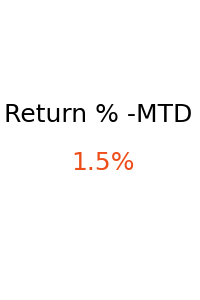
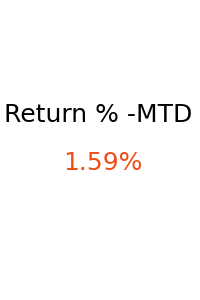
Pull latest code

Changed region(s): [[0.33, 0.48, 0.72, 0.57]]

diff --git a/generate_all_kpi.py b/generate_all_kpi.py
@@ -1,64 +1,64 @@
-
-# # --------- 1. Total Outstanding ----------------------------------
-import Functions.outstanding as out
-out.totalOutstanding()
-
-# # ------- 2. Credit Outstanding ---------------------------------
-import Functions.credit_outstanding as credit
-credit.creditOutstanding()
-
-# ---. 3. NDM wise credit outstanding -----------------------------
-import Functions.ndm_outstanding as ndm_out
-ndm_out.ndm_wise_outstanding()
-
-# # ---- 4. matured credit aging ----------------------------------
-import Functions.matured_credit_aging as ndm_matured
-ndm_matured.matured_credit()
 #
-# # # ----- 5. NDM matured credit aging ---------------------------
-import Functions.ndm_matured_credit_aging as ndm_aging
-ndm_aging.ndm_matured_credit_aging()
+# # # --------- 1. Total Outstanding ----------------------------------
+# import Functions.outstanding as out
+# out.totalOutstanding()
 #
-# # -------- 6. Branch wise matured  credit aging  -------------------
-import Functions.branch_wise_matured_crdit as branch_matured
-branch_matured.branch_wise_matured_credit()
+# # # ------- 2. Credit Outstanding ---------------------------------
+# import Functions.credit_outstanding as credit
+# credit.creditOutstanding()
 #
-# # # -- 7. Total Non-matured credit aging ---------------------------
-import Functions.total_non_matured_credit_aging as non_matured_credit
-non_matured_credit.total_non_matured_credit_aging()
-
-# # -- 8. NDM wise non-matured credit aging ------------------------
-import Functions.ndm_non_matured_credit_aging as ndm_non_matured
-ndm_non_matured.ndm_non_matured_credit_aging()
-
-# # --- 9. Branch wise non-matured credit aging --------------------
-import Functions.branch_wise_non_matured_credit as branch_non_matured
-branch_non_matured.branch_wise_non_matured_credit()
-
-# # ---10. Total Cash Drop Aging ----------------------------------
-import Functions.total_cashdrop_aging as cash_drop
-cash_drop.cashdrop_aging()
-
-# # ------------11. NDM wise cash drop aging ----------------------
-import Functions.NDM_wise_cash_drop_aging as ndm_cash_drop
-ndm_cash_drop.ndm_cash_drop()
-
-# # -- 12. Branch wise cash drop aging ----------------
-import Functions.branch_wise_cash_drop_aging as branch_cash_drop
-branch_cash_drop.branch_wise_cash_drop_aging()
-
-# # ------ 13. Nation wide return ---------------------------------
+# # ---. 3. NDM wise credit outstanding -----------------------------
+# import Functions.ndm_outstanding as ndm_out
+# ndm_out.ndm_wise_outstanding()
+#
+# # # ---- 4. matured credit aging ----------------------------------
+# import Functions.matured_credit_aging as ndm_matured
+# ndm_matured.matured_credit()
+# #
+# # # # ----- 5. NDM matured credit aging ---------------------------
+# import Functions.ndm_matured_credit_aging as ndm_aging
+# ndm_aging.ndm_matured_credit_aging()
+# #
+# # # -------- 6. Branch wise matured  credit aging  -------------------
+# import Functions.branch_wise_matured_crdit as branch_matured
+# branch_matured.branch_wise_matured_credit()
+# #
+# # # # -- 7. Total Non-matured credit aging ---------------------------
+# import Functions.total_non_matured_credit_aging as non_matured_credit
+# non_matured_credit.total_non_matured_credit_aging()
+#
+# # # -- 8. NDM wise non-matured credit aging ------------------------
+# import Functions.ndm_non_matured_credit_aging as ndm_non_matured
+# ndm_non_matured.ndm_non_matured_credit_aging()
+#
+# # # --- 9. Branch wise non-matured credit aging --------------------
+# import Functions.branch_wise_non_matured_credit as branch_non_matured
+# branch_non_matured.branch_wise_non_matured_credit()
+#
+# # # ---10. Total Cash Drop Aging ----------------------------------
+# import Functions.total_cashdrop_aging as cash_drop
+# cash_drop.cashdrop_aging()
+#
+# # # ------------11. NDM wise cash drop aging ----------------------
+# import Functions.NDM_wise_cash_drop_aging as ndm_cash_drop
+# ndm_cash_drop.ndm_cash_drop()
+#
+# # # -- 12. Branch wise cash drop aging ----------------
+# import Functions.branch_wise_cash_drop_aging as branch_cash_drop
+# branch_cash_drop.branch_wise_cash_drop_aging()
+#
+# # # ------ 13. Nation wide return ---------------------------------
 import Functions.nation_wise_return as nation_return
 nation_return.nation_wide_return()
+# #
+# # # # -------14. Nation VS NDM Return ------------------------------
+# import Functions.national_vs_ndm_return as nation_vs_ndm
+# nation_vs_ndm.national_vs_ndm_return()
 #
-# # # -------14. Nation VS NDM Return ------------------------------
-import Functions.national_vs_ndm_return as nation_vs_ndm
-nation_vs_ndm.national_vs_ndm_return()
-
-# # -------15. Top 5 Branch Return -------------------------------
-import Functions.top5_branch_return as top5_branch
-top5_branch.top5_branch_return()
-
-# # ----  16.Top 5 Delivery Persons Return Amount ---------------
-import Functions.top5_delivery_person as delivery_persons_return
-delivery_persons_return.top5_delivery_persons_return()
+# # # -------15. Top 5 Branch Return -------------------------------
+# import Functions.top5_branch_return as top5_branch
+# top5_branch.top5_branch_return()
+#
+# # # ----  16.Top 5 Delivery Persons Return Amount ---------------
+# import Functions.top5_delivery_person as delivery_persons_return
+# delivery_persons_return.top5_delivery_persons_return()

diff --git a/Functions/outstanding.py b/Functions/outstanding.py
@@ -6,11 +6,10 @@ def totalOutstanding():
     outstanding_df = lib.pd.read_sql_query(""" select
                     SUM(CASE WHEN TERMS='CASH' THEN OUT_NET END) AS TotalOutStandingOnCash,
                     SUM(CASE WHEN TERMS not like '%CASH%' THEN OUT_NET END) AS TotalOutStandingOnCredit
-
                     from  [ARCOUT].dbo.[CUST_OUT]
                     where [INVDATE] <= convert(varchar(8),DATEADD(D,0,GETDATE()),112)
                                            
-                                            """, fn.conn)
+                     """, fn.conn)
 
     cash = int(outstanding_df['TotalOutStandingOnCash'])
     credit = int(outstanding_df['TotalOutStandingOnCredit'])
@@ -27,12 +26,12 @@ def totalOutstanding():
 
     fig1, ax = lib.plt.subplots()
     # Add this next line to show data
-    wedges, labels, autopct = ax.pie(data, labels=data_label, colors=colors,  autopct='%.1f%%', startangle=90,
+    wedges, labels, autopct = ax.pie(data, labels=data_label, colors=colors, autopct='%.1f%%', startangle=90,
                                      pctdistance=.7)
     lib.plt.setp(autopct, fontsize=14, color='black', fontweight='bold')
     lib.plt.setp(labels, fontsize=14, fontweight='bold')
 
-   # To make a Donate chart uncomment next 4 lines ------------
+    # To make a Donate chart uncomment next 4 lines ------------
     ax.text(0, -.1, total, ha='center', fontsize=14, fontweight='bold')
     centre_circle = lib.plt.Circle((0, 0), 0.50, fc='white')
     fig = lib.plt.gcf()

diff --git a/Functions/total_non_matured_credit_aging.py b/Functions/total_non_matured_credit_aging.py
@@ -2,7 +2,8 @@ import Functions.all_library as lib
 import Functions.all_function as fn
 
 def total_non_matured_credit_aging():
-    data = lib.pd.read_sql_query("""SELECT  
+    data = lib.pd.read_sql_query("""
+            SELECT  
             isnull(SUM(case when TblCredit.Days_Diff between '-3' and '0'  THEN OUT_NET end), 0)  as '0 - 3 days',
             isnull(sum(case when TblCredit.Days_Diff between '-10' and '-4'  THEN OUT_NET end), 0) as  '4 - 10 days', 
             isnull(sum( case when TblCredit.Days_Diff between '-15' and '-11'  THEN OUT_NET end), 0) as '11 - 15 days', 
